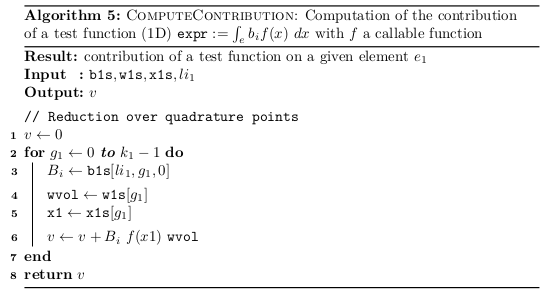
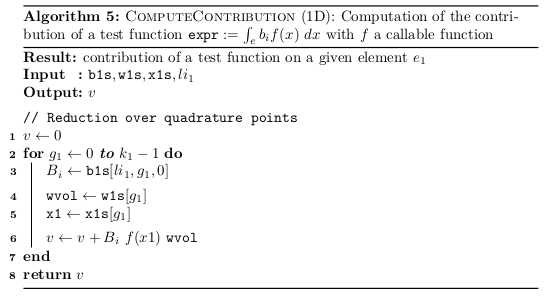
introduction

diff --git a/lessons/Chapter1/algorithms/algo.md b/lessons/Chapter1/algorithms/algo.md
@@ -309,7 +309,7 @@ $v \gets 0$\;
   $v \gets v +  B_i ~ f(x1) ~ \texttt{wvol} $ \;
 }
 \Return $v$ \;
-\caption{{\sc ComputeContribution}: Computation of the contribution of a test function (1D) $\texttt{expr} := \int_e b_i f(x) ~dx$ with $f$ a callable function}
+\caption{{\sc ComputeContribution} (1D): Computation of the contribution of a test function $\texttt{expr} := \int_e b_i f(x) ~dx$ with $f$ a callable function}
 \end{algorithm} 
 
 
@@ -318,7 +318,7 @@ $v \gets 0$\;
 \SetAlgoLined
 \KwResult{contribution between a test and trial function on a given element $e_1$}
 \SetKwInOut{Input}{Input}\SetKwInOut{Output}{Output}
-\Input{$\texttt{b1s}, \texttt{w1s}, \texttt{x1s}, li_1$}
+\Input{$\texttt{b1s}, \texttt{w1s}, \texttt{x1s}, li_1, \values u$}
 \Output{$v$}
 \BlankLine
 \tcp{Reduction over quadrature points}
@@ -332,7 +332,7 @@ $v \gets 0$\;
   $v \gets v +  B_i u ~ \texttt{wvol} $ \;
 }
 \Return $v$ \;
-\caption{{\sc ComputeContribution}: Computation of the contribution of a test function $\texttt{expr} := \int_e b_i u ~dx$ with $u$ a discrete field}
+\caption{{\sc ComputeContribution} (1D): Computation of the contribution of a test function $\texttt{expr} := \int_e b_i u ~dx$ with $u$ a discrete field}
 \end{algorithm} 
 
 ### Computing contributions of test basis functions (2D)
@@ -342,7 +342,7 @@ $v \gets 0$\;
 \SetAlgoLined
 \KwResult{contribution between a test and trial function on a given element $(e_1,e_2)$}
 \SetKwInOut{Input}{Input}\SetKwInOut{Output}{Output}
-\Input{$(\texttt{b1s}, \texttt{b2s}), (\texttt{w1s}, \texttt{w2s}), (\texttt{x1s}, \texttt{x2s}), (li_1, li_2), (lj_1, lj_2)$}
+\Input{$(\texttt{b1s}, \texttt{b2s}), (\texttt{w1s}, \texttt{w2s}), (\texttt{x1s}, \texttt{x2s}), (li_1, li_2)$}
 \Output{$v$}
 \BlankLine
 \tcp{Reduction over quadrature points}
@@ -351,15 +351,16 @@ $v \gets 0$\;
   \For{$g_2 \gets 0$ \textbf{to} $k_2-1$} {
     \BlankLine
     $B_i \gets \texttt{b1s}[li_1, g_1, 0] ~ \texttt{b2s}[li_2, g_2, 0]$ \;
-    $B_j \gets \texttt{b1s}[lj_1, g_1, 0] ~ \texttt{b2s}[lj_2, g_2, 0]$ \;
     \BlankLine
     $\texttt{wvol} \gets \texttt{w1s}[g_1] ~ \texttt{w2s}[g_2]$ \;
+    $\texttt{x1} \gets \texttt{x1s}[g_1]$ \;
+    $\texttt{x2} \gets \texttt{x2s}[g_2]$ \;
     \BlankLine
-    $v \gets v +  B_i ~ B_j ~ \texttt{wvol} $ \;
+    $v \gets v +  B_i ~ f(x1,x2) ~ \texttt{wvol} $ \;
   }
 }
 \Return $v$ \;
-\caption{Computation of a contribution between a test and trial functions of the mass matrix (2D)}
+\caption{{\sc ComputeContribution} (2D): Computation of the contribution of a test function $\texttt{expr} := \int_e b_i f(x,y) ~dxdy$ with $f$ a callable function}
 \end{algorithm} 
 
 
@@ -368,7 +369,7 @@ $v \gets 0$\;
 \SetAlgoLined
 \KwResult{contribution between a test and trial function on a given element $(e_1,e_2)$}
 \SetKwInOut{Input}{Input}\SetKwInOut{Output}{Output}
-\Input{$(\texttt{b1s}, \texttt{b2s}), (\texttt{w1s}, \texttt{w2s}), (\texttt{x1s}, \texttt{x2s}), (li_1, li_2), (lj_1, lj_2)$}
+\Input{$(\texttt{b1s}, \texttt{b2s}), (\texttt{w1s}, \texttt{w2s}), (\texttt{x1s}, \texttt{x2s}), (li_1, li_2), \values u$}
 \Output{$v$}
 \BlankLine
 \tcp{Reduction over quadrature points}
@@ -376,18 +377,16 @@ $v \gets 0$\;
 \For{$g_1 \gets 0$ \textbf{to} $k_1-1$} {
   \For{$g_2 \gets 0$ \textbf{to} $k_2-1$} {
     \BlankLine
-    $\partial_{x_1} B_i \gets \texttt{b1s}[li_1, g_1, 1] ~ \texttt{b2s}[li_2, g_2, 0]$ \;
-    $\partial_{x_2} B_i \gets \texttt{b1s}[li_1, g_1, 0] ~ \texttt{b2s}[li_2, g_2, 1]$ \;
-    $\partial_{x_1} B_j \gets \texttt{b1s}[lj_1, g_1, 1] ~ \texttt{b2s}[lj_2, g_2, 0]$ \;
-    $\partial_{x_2} B_j \gets \texttt{b1s}[lj_1, g_1, 0] ~ \texttt{b2s}[lj_2, g_2, 1]$ \;
+    $B_i \gets \texttt{b1s}[li_1, g_1, 0] ~ \texttt{b2s}[li_2, g_2, 0]$ \;
     \BlankLine
     $\texttt{wvol} \gets \texttt{w1s}[g_1] ~ \texttt{w2s}[g_2]$ \;
+    $u \gets \values u[g_1,g_2]$ \;
     \BlankLine
-    $v \gets v +  (\partial_{x_1} B_i ~ \partial_{x_1} B_j + \partial_{x_2} B_i ~ \partial_{x_2} B_j ) ~ \texttt{wvol} $ \;
+    $v \gets v +  B_i u ~ \texttt{wvol} $ \;
   }
 }
 \Return $v$ \;
-\caption{Computation of a contribution between a test and trial functions of the Stiffness matrix (2D)}
+\caption{{\sc ComputeContribution} (2D): Computation of the contribution of a test function $\texttt{expr} := \int_e b_i u ~dxdy$ with $u$ a discrete field}
 \end{algorithm} 
 
 ## Kernel for an expression with arity = 2
@@ -418,7 +417,51 @@ $v \gets 0$\;
 \caption{Assembly of the matrix (1D), on a given element}
 \end{algorithm} 
 
-### Computing contributions between test and trial basis functions
+### 2D case
+
+\begin{algorithm}[H]
+\DontPrintSemicolon
+\SetAlgoLined
+%\KwResult{matrix over a given element}
+%\SetKwInOut{Input}{Input}\SetKwInOut{Output}{Output}
+%\Input{TODO}
+%\Output{TODO}
+\BlankLine
+\tcp{$li_1$ denotes the (test) local index (axis=1)}
+\For{$li_1 \gets 0$ \textbf{to} $p_1$} {
+  \tcp{$i_1$ denotes the (test) global index (axis=1)}
+  $i_1 \gets li_1 + \texttt{span\_i\_1} - p_1$\;
+  \BlankLine
+  \tcp{$lj_1$ denotes the (trial) local index (axis=1)}
+  \For{$lj_1 \gets 0$ \textbf{to} $p_1$} {
+    \tcp{$j_1$ denotes the (trial) global index (axis=1)}
+    $j_1 \gets lj_1 + \texttt{span\_j\_1} - p_1$\;
+    \BlankLine
+    \tcp{$li_2$ denotes the (test) local index (axis=2)}
+    \For{$li_2 \gets 0$ \textbf{to} $p_2$} {
+      \tcp{$i_2$ denotes the (test) global index (axis=2)}
+      $i_2 \gets li_2 + \texttt{span\_i\_2} - p_2$\;
+      \BlankLine
+      \tcp{$lj_2$ denotes the (trial) local index (axis=2)}
+      \For{$lj_2 \gets 0$ \textbf{to} $p_2$} {
+        \tcp{$j_2$ denotes the (trial) global index (axis=2)}
+        $j_2 \gets lj_2 + \texttt{span\_j\_2} - p_2$\;
+        \BlankLine
+        \tcp{Compute the contribution between test and trial functions}
+        $v \gets \texttt{compute\_contribution}(li_1,li_2,lj_1,lj_2)$ \;
+        \BlankLine
+        $I \gets \texttt{multi\_index}(i_1,i_2)$ \;
+        $J \gets \texttt{multi\_index}(j_1,j_2)$ \;
+        \BlankLine
+        $\texttt{update\_matrix}(M,I,J,v)$ \;
+      }
+    }
+  }
+}
+\caption{Assembly of the matrix (2D), on a given element}
+\end{algorithm} 
+
+### Computing contributions between test and trial basis functions (1D)
 
 \begin{algorithm}[H]
 \DontPrintSemicolon
@@ -466,51 +509,7 @@ $v \gets 0$\;
 \end{algorithm} 
 
 
-### 2D case
-
-\begin{algorithm}[H]
-\DontPrintSemicolon
-\SetAlgoLined
-%\KwResult{matrix over a given element}
-%\SetKwInOut{Input}{Input}\SetKwInOut{Output}{Output}
-%\Input{TODO}
-%\Output{TODO}
-\BlankLine
-\tcp{$li_1$ denotes the (test) local index (axis=1)}
-\For{$li_1 \gets 0$ \textbf{to} $p_1$} {
-  \tcp{$i_1$ denotes the (test) global index (axis=1)}
-  $i_1 \gets li_1 + \texttt{span\_i\_1} - p_1$\;
-  \BlankLine
-  \tcp{$lj_1$ denotes the (trial) local index (axis=1)}
-  \For{$lj_1 \gets 0$ \textbf{to} $p_1$} {
-    \tcp{$j_1$ denotes the (trial) global index (axis=1)}
-    $j_1 \gets lj_1 + \texttt{span\_j\_1} - p_1$\;
-    \BlankLine
-    \tcp{$li_2$ denotes the (test) local index (axis=2)}
-    \For{$li_2 \gets 0$ \textbf{to} $p_2$} {
-      \tcp{$i_2$ denotes the (test) global index (axis=2)}
-      $i_2 \gets li_2 + \texttt{span\_i\_2} - p_2$\;
-      \BlankLine
-      \tcp{$lj_2$ denotes the (trial) local index (axis=2)}
-      \For{$lj_2 \gets 0$ \textbf{to} $p_2$} {
-        \tcp{$j_2$ denotes the (trial) global index (axis=2)}
-        $j_2 \gets lj_2 + \texttt{span\_j\_2} - p_2$\;
-        \BlankLine
-        \tcp{Compute the contribution between test and trial functions}
-        $v \gets \texttt{compute\_contribution}(li_1,li_2,lj_1,lj_2)$ \;
-        \BlankLine
-        $I \gets \texttt{multi\_index}(i_1,i_2)$ \;
-        $J \gets \texttt{multi\_index}(j_1,j_2)$ \;
-        \BlankLine
-        $\texttt{update\_matrix}(M,I,J,v)$ \;
-      }
-    }
-  }
-}
-\caption{Assembly of the matrix (2D), on a given element}
-\end{algorithm} 
-
-### Computing contributions between test and trial basis functions
+### Computing contributions between test and trial basis functions (2D)
 
 \begin{algorithm}[H]
 \DontPrintSemicolon
